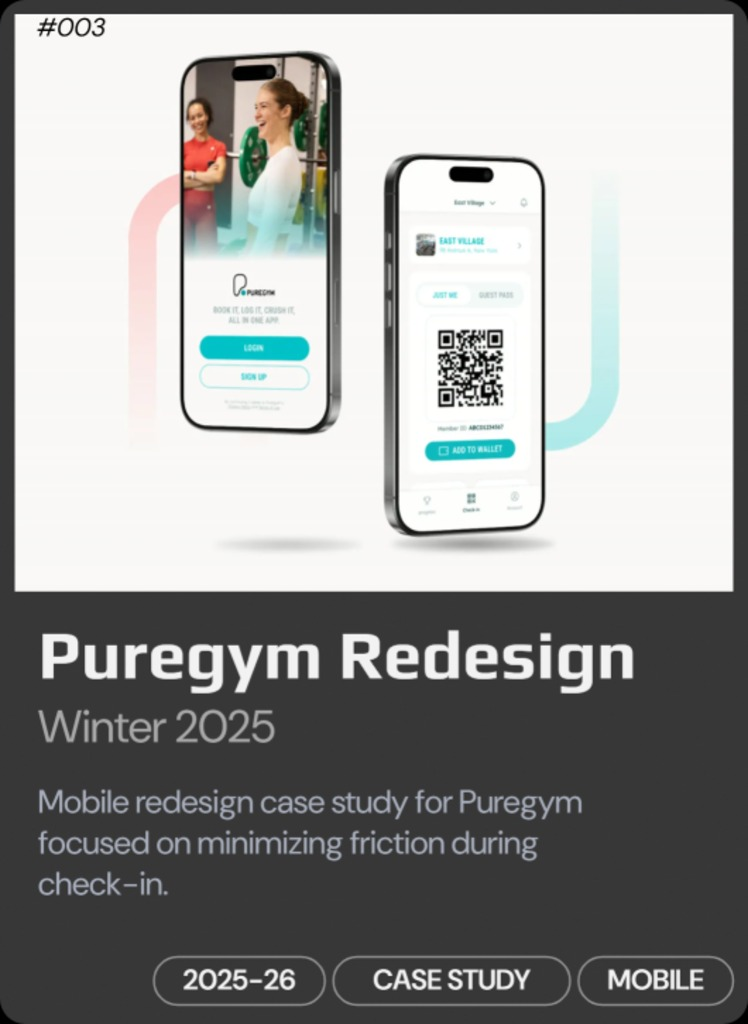
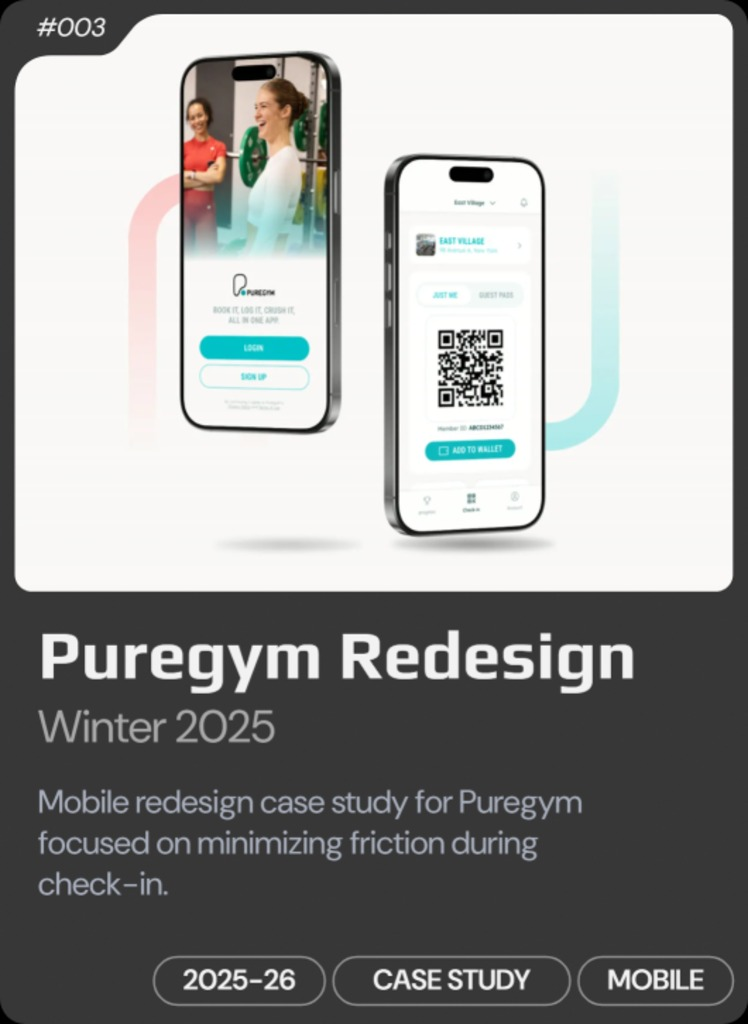
Clip the Puregym card's photo like every other card's
The template cards clip their photo to a rounded well with a folded-corner
notch; this one drew into the same rectangle with no inner clip at all, so
the mockup landed as a square-cornered slab running to the card's edges with
its own outer radius shaving bites out of the top corners.

It was wrong in light mode too, just invisible: the light stock and the
mockup's white ground are nearly the same colour. Dark mode is what showed
it up.

Cover rather than stretch, since the mockup is 1250x1004 against a well of
the same ratio to four decimal places — the crop is sub-pixel and nothing of
the phones is lost. With the notch now there, "#003" sits on bare stock and
can follow the theme instead of being pinned to black because a white ground
used to be behind it.

The next-project thumbnails are exports of this face, so they are rebuilt.

diff --git a/script.js b/script.js
@@ -1220,20 +1220,31 @@ function loadCard1() {
         function paint(theme) {
             const { cardBg, ink, inkSub, inkBody } = THEME_COLORS[theme];
 
-            // Background + phone-mockup photo, clipped to the card's rounded corners
+            // Card stock, clipped to the card's rounded corners
             ctx.save();
             ctx.beginPath();
             ctx.roundRect(0, 0, canvas.width, canvas.height, r);
             ctx.clip();
             ctx.fillStyle = cardBg;
             ctx.fillRect(0, 0, canvas.width, canvas.height);
-            ctx.drawImage(mockup, 21 * s, 20 * s, 1016.663 * s, 817 * s);
+            ctx.restore();
+
+            // Phone-mockup photo, clipped to the same rounded well + folded-corner
+            // notch the template cards use (tmplPhotoClipPath), so this card's photo
+            // box matches the rest of the deck instead of running square to the edges.
+            // Cover rather than stretch: the mockup is 1250x1004 (1.2450) against a
+            // 1016.663x817 well (1.2444), so the crop is sub-pixel and nothing of the
+            // phones is lost — but it keeps the aspect honest like every other card.
+            ctx.save();
+            tmplPhotoClipPath(ctx, 21 * s, 20 * s, s);
+            ctx.clip();
+            tmplDrawImageCover(ctx, mockup, 21 * s, 20 * s, 1016.663 * s, 817 * s);
             ctx.restore();
 
             // "#003" — this card's position in the site's numbering (not Figma's placeholder number).
-            // Stays black in both themes: unlike the template cards, the mockup here is drawn as a
-            // plain rect with no folded-corner notch, so its white ground covers this spot.
-            ctx.fillStyle = '#000';
+            // Sits in the folded-corner notch on bare stock, so it follows the theme's ink
+            // like the template cards' tags do.
+            ctx.fillStyle = ink;
             ctx.font = `italic 400 ${36 * s}px "DM Sans", sans-serif`;
             ctx.textAlign = 'center';
             ctx.textBaseline = 'top';
